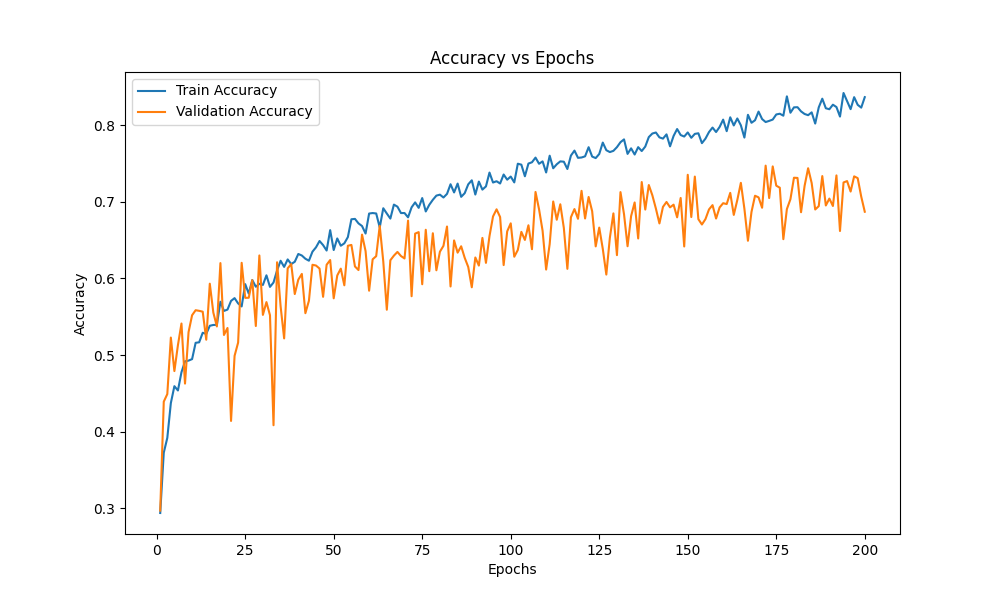
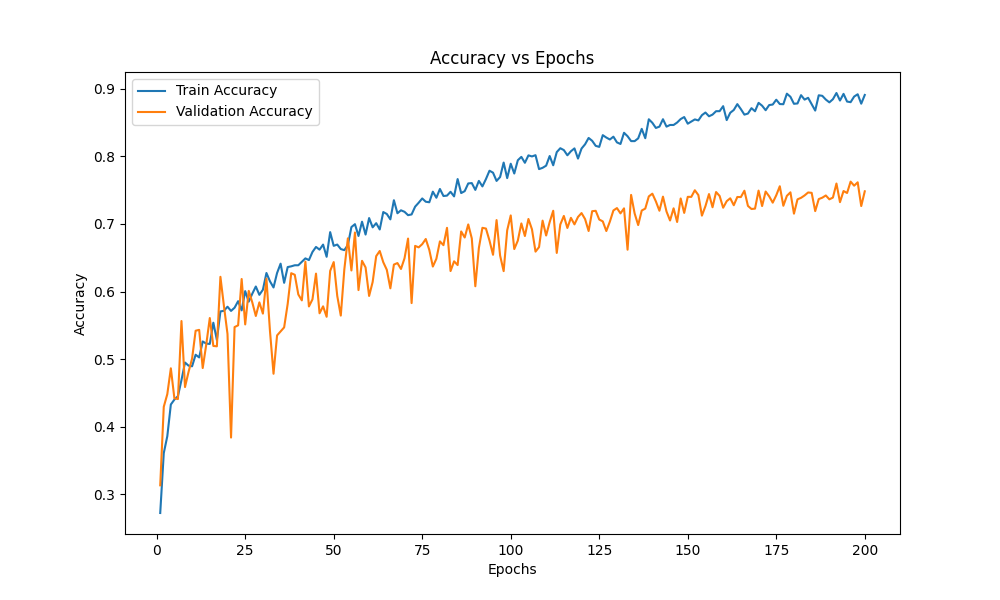
Added config generation

diff --git a/generate_configs.py b/generate_configs.py
@@ -1,0 +1,85 @@
+import yaml
+import itertools
+import os
+
+def generate_configs():
+    # Base configuration
+    base_config = {
+        'data': {
+            'root_dir': 'data',
+            'num_workers': 4
+        },
+        'model': {
+            'name': 'cnn',
+            'num_classes': 9,
+            'dropout_rate': 0.3
+        },
+        'training': {
+            'num_epochs': 200,
+            'optimizer': 'adam',
+            'evaluate_every': 20,
+            'scheduler': {
+                'name': 'cosine_annealing',
+                'min_eta': 0.0005,
+                't_max': 200
+            }
+        },
+        'data_augmentation': {
+            'random_rotation': 15,
+            'random_horizontal_flip': True,
+            'random_vertical_flip': False,
+            'color_jitter': {
+                'brightness': 0.1,
+                'contrast': 0.1,
+                'saturation': 0.2,
+                'hue': 0.1
+            }
+        },
+        'seed': 42,
+        'paths': {
+            'best_model': 'results/cnn_best_model.pth',
+            'confusion_matrix': 'results/cnn_confusion_matrix.png',
+            'learning_curves': 'results/cnn_learning_curves.png',
+            'log_dir': 'logs/cnn',
+            'metrics': 'results/cnn_metrics.json'
+        }
+    }
+
+    # Parameters to vary
+    learning_rates = [0.001, 0.003]
+    batch_sizes = [16, 32, 64]
+    weight_decays = [0.0001, 0.001]
+    dropout_rates = [0.3]
+
+    # Generate all combinations
+    combinations = list(itertools.product(learning_rates, batch_sizes, weight_decays, dropout_rates))
+
+    # Ensure the configs directory exists
+    os.makedirs('configs', exist_ok=True)
+
+    # Generate config files
+    for i, (lr, bs, wd, dr) in enumerate(combinations):
+        config = base_config.copy()
+        config['training']['learning_rate'] = lr
+        config['data']['batch_size'] = bs
+        config['training']['weight_decay'] = wd
+        config['model']['dropout_rate'] = dr
+        
+        # Update paths for this specific configuration
+        config['paths']['best_model'] = f'results/cnn_best_model_{i+1}.pth'
+        config['paths']['confusion_matrix'] = f'results/cnn_confusion_matrix_{i+1}.png'
+        config['paths']['learning_curves'] = f'results/cnn_learning_curves_{i+1}.png'
+        config['paths']['log_dir'] = f'logs/cnn_{i+1}'
+        config['paths']['metrics'] = f'results/cnn_metrics_{i+1}.json'
+        
+        filename = f'configs/config_{i+1}.yaml'
+        with open(filename, 'w') as f:
+            yaml.dump(config, f, default_flow_style=False)
+        
+        print(f"Generated {filename}")
+
+    return len(combinations)
+
+if __name__ == "__main__":
+    num_configs = generate_configs()
+    print(f"Generated {num_configs} configuration files.")

diff --git a/main.py b/main.py
@@ -44,15 +44,15 @@ def main():
     criterion = nn.CrossEntropyLoss()
     optimizer = get_optimizer(model, config['training']['optimizer'], config['training']['learning_rate'])
 
-    # Train the model
-    best_model = train_model(model, train_loader, val_loader, criterion, optimizer, 
-                             config['training']['num_epochs'], device, config, config['training']['evaluate_every'])
+    # # Train the model
+    # best_model = train_model(model, train_loader, val_loader, criterion, optimizer, 
+    #                          config['training']['num_epochs'], device, config, config['training']['evaluate_every'])
 
-    # Save the best model
-    torch.save(best_model, config['paths']['best_model'])
+    # # Save the best model
+    # torch.save(best_model, config['paths']['best_model'])
 
     # Load the best model for evaluation
-    model.load_state_dict(best_model)
+    # model.load_state_dict(best_model)
 
     # Evaluate the model
     test_metrics, y_true, y_pred = evaluate_model(model, test_loader, criterion, device)

diff --git a/src/train.py b/src/train.py
@@ -3,7 +3,7 @@ import torch.nn as nn
 import torch.optim as optim
 from tqdm import tqdm
 from .utils import calculate_metrics, log_metrics
-from torch.optim.lr_scheduler import CosineAnnealingWarmRestarts
+from torch.optim.lr_scheduler import CosineAnnealingLR
 
 def train_epoch(model, loader, criterion, optimizer, device):
     model.train()
@@ -61,8 +61,8 @@ def train_model(model, train_loader, val_loader, criterion, optimizer, num_epoch
     
     if config['training'].get('scheduler'):
         scheduler_config = config['training']['scheduler']
-        if scheduler_config['name'] == 'cosine_annealing_warm_restarts':
-            scheduler = CosineAnnealingWarmRestarts(optimizer, T_0=scheduler_config['T_0'], T_mult=scheduler_config['T_mult'])
+        if scheduler_config['name'] == 'cosine_annealing':
+            scheduler = CosineAnnealingLR(optimizer, T_max=scheduler_config['t_max'] ,eta_min=scheduler_config['min_eta'])
     else:
         scheduler = None    
     

diff --git a/reports/cnn_report.md b/reports/cnn_report.md
@@ -13,15 +13,15 @@
 
 | Metric | Initial | Final | Best |
 |--------|---------|-------|------|
-| Loss   | 1.9345 | 0.4968 | 0.4891 |
-| Accuracy | 0.2937 | 0.8368 | 0.8422 |
+| Loss   | 1.9754 | 0.3478 | 0.3339 |
+| Accuracy | 0.2724 | 0.8908 | 0.8937 |
 
 ### Validation Metrics
 
 | Metric | Initial | Final | Best |
 |--------|---------|-------|------|
-| Loss   | 1.8216 | 1.0741 | 0.8553 |
-| Accuracy | 0.2969 | 0.6871 | 0.7473 |
+| Loss   | 1.7896 | 0.8688 | 0.8384 |
+| Accuracy | 0.3134 | 0.7482 | 0.7626 |
 
 ## Training Details
 
@@ -32,6 +32,3 @@
 
 ![Confusion Matrix](docs/cnn_confusion_matrix.png)
 
-Test Loss: 0.8905
-Test Precision: 0.7568
-Test F1 Score: 0.7344
